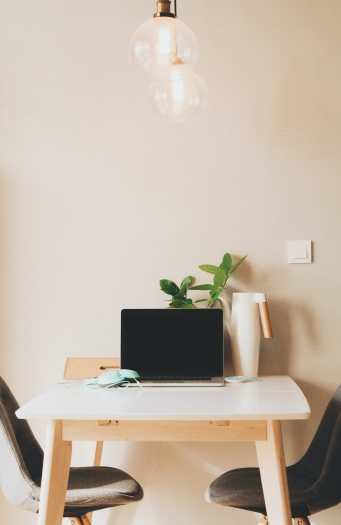
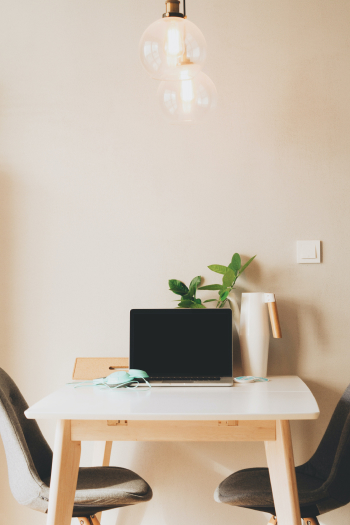
Replace cropped image with real size image

diff --git a/css/style.css b/css/style.css
@@ -7,6 +7,7 @@ body {
 main {
 	max-width: 1440px;
 	margin: 0 auto;
+	overflow-x: hidden;
 }
 
 section {
@@ -295,7 +296,6 @@ section:after {
 	display: flex;
 	align-items: center;
 	min-height: 750px;
-	padding: 10rem 0;
 	box-sizing: border-box;
 }
 
@@ -314,13 +314,14 @@ section:after {
 	width: 100%;
 	flex-flow: row nowrap;
 	align-items: flex-end;
-	height: 100%;
 	justify-content: space-between;
+	transform: translateX(-2rem);
 }
 
 .strong-row-item {
 	height: 525px;
 	max-width: 350px;
+	margin-right: 3rem;
 }
 
 .strong-row-item:first-child {

diff --git a/index.html b/index.html
@@ -126,7 +126,7 @@
 					</div>
 				</div>
 				<div class='strong-row-item item-image'>
-					<img src='./img/strong-3.jpg' alt="" />
+					<img src='./img/strong-2.jpg' alt="" />
 				</div>
 				
 			</div>
